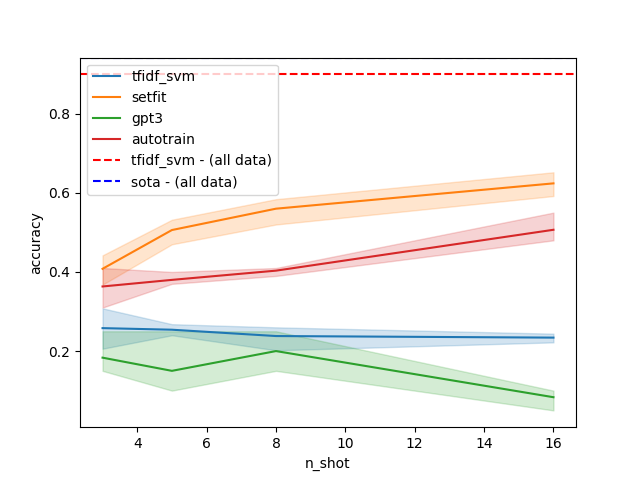
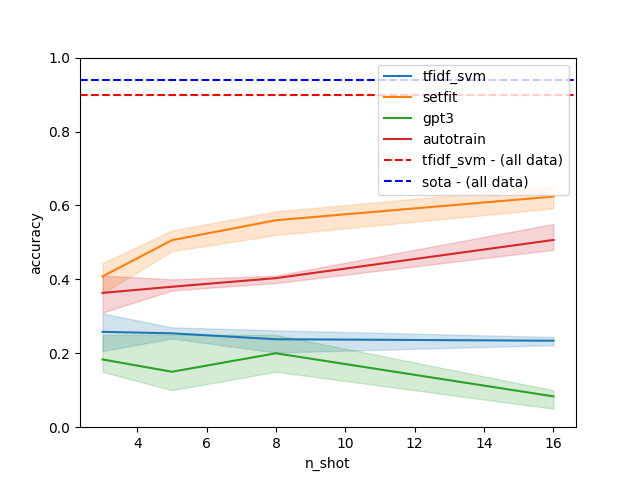
Limit y axis to 0,1

diff --git a/src/create_graph.py b/src/create_graph.py
@@ -41,9 +41,12 @@ def create_graph(results_path="results", dataset="imdb", figures_path="figures")
                             "accuracy": fold_result["metrics"]["accuracy"],
                         }
                     )
+    print(all_data)
 
     few_shot_data = pd.DataFrame(few_shot_data)
+
     line_plot = sns.lineplot(few_shot_data, x="n_shot", y="accuracy", hue="model")
+    line_plot.set(ylim=(0, 1))
 
     all_colors = ["r", "b"]
     for i, result in enumerate(all_data):
